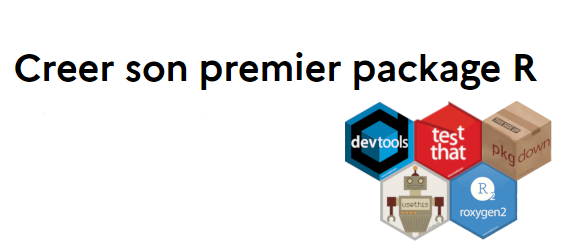
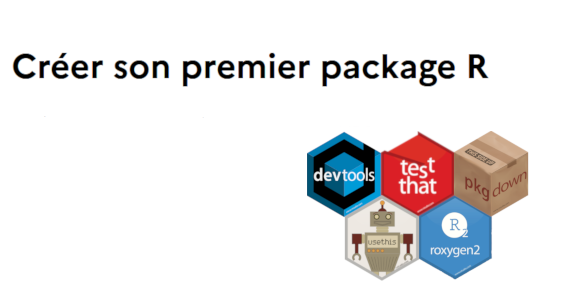
deploy: 65c6f9c72cf7e69343a54566f457374d55eab5aa

Changed region(s): [[0.5359, 0.4, 0.9825, 1.0], [0.0, 0.1714, 0.9527, 0.3714]]

diff --git a/index.html b/index.html
@@ -86,35 +86,35 @@ code span.wa { color: #5e5e5e; font-style: italic; } /* Warning */
 </style>
 
   <!--radix_placeholder_meta_tags-->
-  <title>Creer son premier package R</title>
+  <title>Creer son premier package R: Créer son premier package R</title>
   
   <meta property="description" itemprop="description" content="Ce site presente les supports pour un atelier sur la creation de packages"/>
   
   
   
   <!--  https://developers.facebook.com/docs/sharing/webmasters#markup -->
-  <meta property="og:title" content="Creer son premier package R"/>
+  <meta property="og:title" content="Creer son premier package R: Créer son premier package R"/>
   <meta property="og:type" content="article"/>
   <meta property="og:description" content="Ce site presente les supports pour un atelier sur la creation de packages"/>
   <meta property="og:image" content="https://maeltheuliere.github.io/ateliers_rpackage/www/twittercard.png"/>
-  <meta property="og:image:width" content="571"/>
-  <meta property="og:image:height" content="245"/>
+  <meta property="og:image:width" content="573"/>
+  <meta property="og:image:height" content="300"/>
   <meta property="og:locale" content="en_US"/>
   <meta property="og:site_name" content="Creer son premier package R"/>
   
   <!--  https://dev.twitter.com/cards/types/summary -->
   <meta property="twitter:card" content="summary_large_image"/>
-  <meta property="twitter:title" content="Creer son premier package R"/>
+  <meta property="twitter:title" content="Creer son premier package R: Créer son premier package R"/>
   <meta property="twitter:description" content="Ce site presente les supports pour un atelier sur la creation de packages"/>
   <meta property="twitter:image" content="https://maeltheuliere.github.io/ateliers_rpackage/www/twittercard.png"/>
-  <meta property="twitter:image:width" content="571"/>
-  <meta property="twitter:image:height" content="245"/>
+  <meta property="twitter:image:width" content="573"/>
+  <meta property="twitter:image:height" content="300"/>
   
   <!--/radix_placeholder_meta_tags-->
   <!--radix_placeholder_rmarkdown_metadata-->
   
   <script type="text/json" id="radix-rmarkdown-metadata">
-  {"type":"list","attributes":{"names":{"type":"character","attributes":{},"value":["title","description","site","base_url","preview"]}},"value":[{"type":"character","attributes":{},"value":["Creer son premier package R"]},{"type":"character","attributes":{},"value":["Ce site presente les supports pour un atelier sur la creation de packages\n"]},{"type":"character","attributes":{},"value":["distill::distill_website"]},{"type":"character","attributes":{},"value":["https://maeltheuliere.github.io/ateliers_rpackage"]},{"type":"character","attributes":{},"value":["www/twittercard.png"]}]}
+  {"type":"list","attributes":{"names":{"type":"character","attributes":{},"value":["title","description","site","base_url","preview"]}},"value":[{"type":"character","attributes":{},"value":["Créer son premier package R"]},{"type":"character","attributes":{},"value":["Ce site presente les supports pour un atelier sur la creation de packages\n"]},{"type":"character","attributes":{},"value":["distill::distill_website"]},{"type":"character","attributes":{},"value":["https://maeltheuliere.github.io/ateliers_rpackage"]},{"type":"character","attributes":{},"value":["www/twittercard.png"]}]}
   </script>
   <!--/radix_placeholder_rmarkdown_metadata-->
   <!--radix_placeholder_navigation_in_header-->
@@ -2387,7 +2387,7 @@ code span.wa { color: #5e5e5e; font-style: italic; } /* Warning */
 <!--radix_placeholder_front_matter-->
 
 <script id="distill-front-matter" type="text/json">
-{"title":"Creer son premier package R","description":"Ce site presente les supports pour un atelier sur la creation de packages","authors":[]}
+{"title":"Créer son premier package R","description":"Ce site presente les supports pour un atelier sur la creation de packages","authors":[]}
 </script>
 
 <!--/radix_placeholder_front_matter-->
@@ -2420,7 +2420,7 @@ Ateliers
 <!--/radix_placeholder_site_before_body-->
 
 <div class="d-title">
-<h1>Creer son premier package R</h1>
+<h1>Créer son premier package R</h1>
 <!--radix_placeholder_categories-->
 <!--/radix_placeholder_categories-->
 <p><p>Ce site presente les supports pour un atelier sur la creation de packages</p></p>

diff --git a/atelier1.html b/atelier1.html
@@ -2434,7 +2434,7 @@ Ateliers
 </ul>
 <div class="layout-chunk" data-layout="l-body">
 <div class="shareagain" style="min-width:300px;margin:1em auto;">
-<iframe src="slides/slide1.html" width="400" height="300" style="border:2px solid currentColor;" loading="lazy" allowfullscreen></iframe>
+<iframe src="slides/slide1.html" width="1600" height="900" style="border:2px solid currentColor;" loading="lazy" allowfullscreen></iframe>
 <script>fitvids('.shareagain', {players: 'iframe'});</script>
 </div>
 </div>

diff --git a/atelier2.html b/atelier2.html
@@ -2435,7 +2435,7 @@ Ateliers
 </ul>
 <div class="layout-chunk" data-layout="l-body">
 <div class="shareagain" style="min-width:300px;margin:1em auto;">
-<iframe src="slides/slide2.html" width="400" height="300" style="border:2px solid currentColor;" loading="lazy" allowfullscreen></iframe>
+<iframe src="slides/slide2.html" width="1600" height="900" style="border:2px solid currentColor;" loading="lazy" allowfullscreen></iframe>
 <script>fitvids('.shareagain', {players: 'iframe'});</script>
 </div>
 </div>

diff --git a/atelier3.html b/atelier3.html
@@ -2429,7 +2429,7 @@ Ateliers
 </ul>
 <div class="layout-chunk" data-layout="l-body">
 <div class="shareagain" style="min-width:300px;margin:1em auto;">
-<iframe src="slides/slide3.html" width="400" height="300" style="border:2px solid currentColor;" loading="lazy" allowfullscreen></iframe>
+<iframe src="slides/slide3.html" width="1600" height="900" style="border:2px solid currentColor;" loading="lazy" allowfullscreen></iframe>
 <script>fitvids('.shareagain', {players: 'iframe'});</script>
 </div>
 </div>
